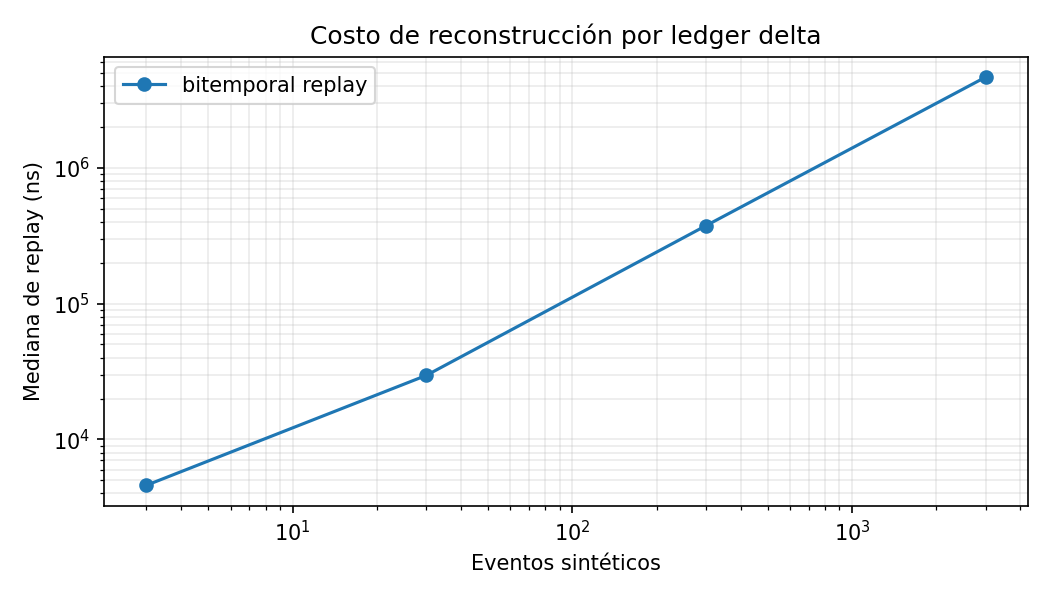
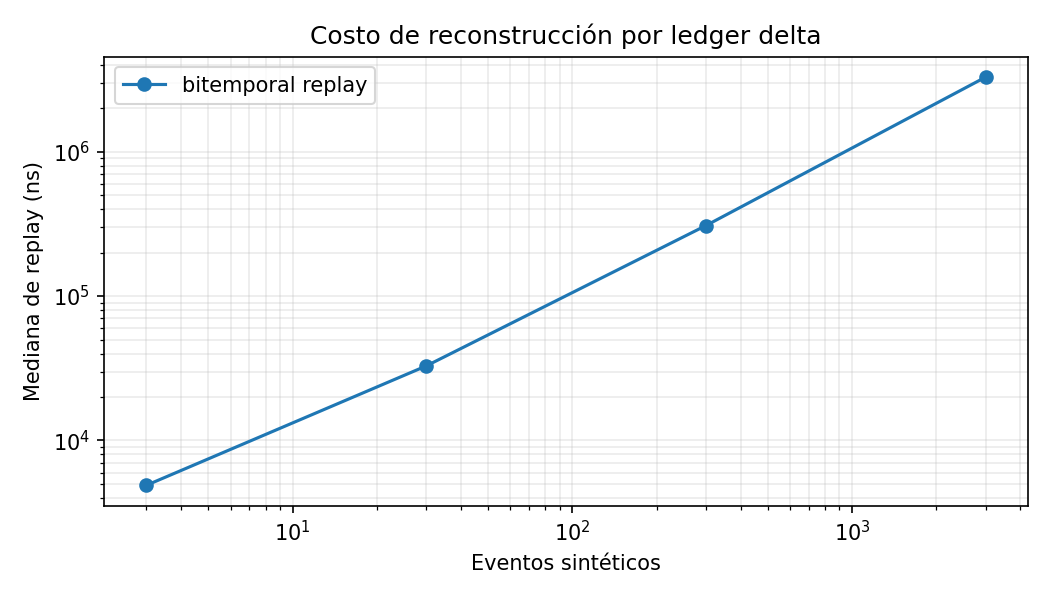
fix(ai): preserve as-of invariance in delta replay

diff --git a/05-artificial-intelligence-and-computational-systems/02-machine-learning-engineering/mvp-linked-entity-holdout/tests/test_delta_replay.py b/05-artificial-intelligence-and-computational-systems/02-machine-learning-engineering/mvp-linked-entity-holdout/tests/test_delta_replay.py
@@ -37,6 +37,33 @@ class ReplayTests(unittest.TestCase):
         with self.assertRaises(ValueError):
             replay([e, x], identity_at=e.effective_at, cutoff=e.available_at)
 
+    def test_cutoff_invariance_for_future_duplicate_or_malformed_payload(self):
+        event = Delta("e", "link", "2026-01-01T00:00:00Z", "2026-01-01T00:00:00Z", "x")
+        future = Delta("e", "not-an-action", "not-a-date", "2026-02-01T00:00:00Z", "x")  # type: ignore[arg-type]
+        args = dict(identity_at="2026-01-02T00:00:00Z", cutoff="2026-01-10T00:00:00Z")
+        self.assertEqual(replay([event], **args), replay([event, future], **args))
+
+    def test_superseded_conflicting_tie_does_not_block(self):
+        events = [
+            Delta("e", "link", "2026-01-01T00:00:00Z", "2026-01-01T00:00:00Z", "a"),
+            Delta("e", "link", "2026-01-02T00:00:00Z", "2026-01-02T00:00:00Z", "b"),
+            Delta("e", "unlink", "2026-01-02T00:00:00Z", "2026-01-02T00:00:00Z", "c"),
+            Delta("e", "unlink", "2026-01-03T00:00:00Z", "2026-01-03T00:00:00Z", "d"),
+        ]
+        args = dict(identity_at="2026-01-04T00:00:00Z", cutoff="2026-01-04T00:00:00Z")
+        self.assertEqual(replay(events, **args), set())
+        self.assertEqual(replay(events[::-1], **args), set())
+
+    def test_conflict_at_final_maximum_blocks_in_any_order(self):
+        events = [
+            Delta("e", "link", "2026-01-02T00:00:00Z", "2026-01-02T00:00:00Z", "a"),
+            Delta("e", "unlink", "2026-01-02T00:00:00Z", "2026-01-02T00:00:00Z", "b"),
+        ]
+        args = dict(identity_at="2026-01-03T00:00:00Z", cutoff="2026-01-03T00:00:00Z")
+        for ordered in (events, events[::-1]):
+            with self.assertRaisesRegex(ValueError, "conflicting effective-time tie"):
+                replay(ordered, **args)
+
     def test_timezone_naive_rejected(self):
         with self.assertRaises(ValueError):
             replay([], identity_at="2026-01-01T00:00:00", cutoff="2026-01-01T00:00:00Z")

diff --git a/05-artificial-intelligence-and-computational-systems/02-machine-learning-engineering/mvp-linked-entity-holdout/src/delta_replay.py b/05-artificial-intelligence-and-computational-systems/02-machine-learning-engineering/mvp-linked-entity-holdout/src/delta_replay.py
@@ -31,22 +31,31 @@ def replay(events: list[Delta], *, identity_at: str, cutoff: str) -> set[str]:
     are rejected so the source ledger must be deduplicated before inference.
     """
     t, c = _time(identity_at), _time(cutoff)
-    ids = [e.event_id for e in events]
-    if len(set(ids)) != len(ids):
-        raise ValueError("duplicate event_id")
-    latest: dict[str, tuple[datetime, Action]] = {}
+    latest: dict[str, tuple[datetime, set[Action]]] = {}
+    seen_ids: set[str] = set()
     for e in events:
+        # Availability is the first gate: post-cutoff payload fields cannot affect
+        # a historical query. The timestamp itself must remain parseable.
+        available = _time(e.available_at)
+        if available > c:
+            continue
         if e.action not in ("link", "unlink") or not e.edge or not e.event_id:
             raise ValueError("invalid event")
-        effective, available = _time(e.effective_at), _time(e.available_at)
-        if available > c or effective > t:
+        if e.event_id in seen_ids:
+            raise ValueError("duplicate event_id")
+        seen_ids.add(e.event_id)
+        effective = _time(e.effective_at)
+        if effective > t:
             continue
         old = latest.get(e.edge)
         if old is None or effective > old[0]:
-            latest[e.edge] = (effective, e.action)
-        elif effective == old[0] and e.action != old[1]:
+            latest[e.edge] = (effective, {e.action})
+        elif effective == old[0]:
+            old[1].add(e.action)
+    for _, actions in latest.values():
+        if len(actions) > 1:
             raise ValueError("conflicting effective-time tie")
-    return {edge for edge, (_, action) in latest.items() if action == "link"}
+    return {edge for edge, (_, actions) in latest.items() if "link" in actions}
 
 
 def snapshot_first(events: list[Delta], *, identity_at: str, cutoff: str) -> set[str]:

diff --git a/05-artificial-intelligence-and-computational-systems/02-machine-learning-engineering/mvp-linked-entity-holdout/benchmarks/delta_experiment.py b/05-artificial-intelligence-and-computational-systems/02-machine-learning-engineering/mvp-linked-entity-holdout/benchmarks/delta_experiment.py
@@ -64,7 +64,7 @@ for n in (1, 10, 100, 1000):
         )
     )
 with (OUT / "raw.csv").open("w", newline="") as f:
-    w = csv.DictWriter(f, fieldnames=rows[0])
+    w = csv.DictWriter(f, fieldnames=rows[0], lineterminator="\n")
     w.writeheader()
     w.writerows(rows)
 summary = {

diff --git a/05-artificial-intelligence-and-computational-systems/02-machine-learning-engineering/mvp-linked-entity-holdout/informe_delta1104.md b/05-artificial-intelligence-and-computational-systems/02-machine-learning-engineering/mvp-linked-entity-holdout/informe_delta1104.md
@@ -6,7 +6,7 @@
 4. **Brecha:** el gate anterior solo aceptaba snapshot/full replacement, sin reconstruir cambios incrementales.
 5. **Diseño/config:** ledger sintético 3 eventos/arista, semilla 1104, 1/10/100/1000 aristas; query y corte fijados en `config_delta1104.json`; no datos personales.
 6. **Implementación/fórmula:** `src/delta_replay.py`; para cada arista `x`, filtrar `A_e<=c, V_e<=t`, luego escoger `e* = argmax V_e`; estado activo si `action(e*)=link`. Ties contradictorios y event_id repetido bloquean. Se conservan disponibilidad y eficacia separadas.
-7. **Tests/benchmarks:** `bash run_delta_audit.sh`: 4 tests, Ruff, mypy strict, benchmark; notebook 2/2 code cells. Sin property-based ni cobertura reportada.
+7. **Tests/benchmarks:** `bash run_delta_audit.sh`: 7 tests (incluye invarianza al corte y permutaciones de conflictos), Ruff, mypy strict, benchmark; notebook 2/2 code cells. Sin property-based ni cobertura reportada.
 8. **Resultados/figura:** raw/summary en `results/delta1104`; baseline de última llegada re-activa falsamente todos los vínculos en contrajemplo; error: 1, 10, 100, 1000 falsas admisiones en 3, 30, 300, 3000 eventos. Replay mediano local: 4,597; 29,554; 373,784; 4,635,865 ns. PNG de costo log-log; benchmark sintético no es dato real.
 9. **Análisis crítico:** prueba refuta el orden de llegada como sustituto de vigencia; no demuestra que ese bug prevalezca en pipeline real.
 10. **Límites/sesgos:** timestamps se tratan como confiables; no autentica fuente, equivale pares a identidad relacional, no modela esquema/correcciones complejas, no mide leakage predictivo.
